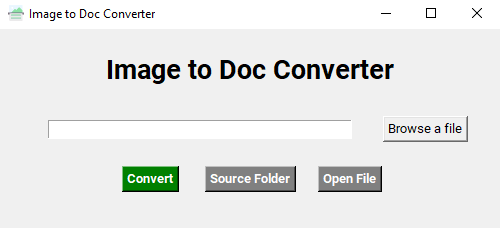
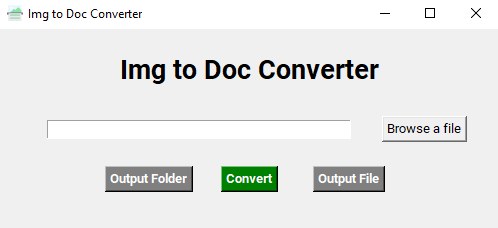
Updated Readme

diff --git a/README.md b/README.md
@@ -9,7 +9,7 @@ Image to doc converter tool helps to translate JPG or PNG images to word with th
 3. Install pillow from `pip install pillow`.
 4. Install pytesseract from `pip install pytesseract`
 5. Download `[tesseract 32-bit](https://rb.gy/gc55qc) or [tesseract 64-bit](https://rb.gy/yc6c2s)`
-6. Clone this repository: `git clone https://github.com/iam-hasibul/Image-to-Doc-Converter` or click `Download ZIP` in the right panel and extract it.
+6. Clone this repository: `git clone https://github.com/iam-hasibul/Img-to-Doc-Converter` or click `Download ZIP` in the right panel and extract it.
 7. Run `python img-to-doc.py` from the repository's directory.
 8. Click on `Browse a file` button and choose an image file.
 9. Click on `Convert` button to convert the image file to doc file.
@@ -17,6 +17,7 @@ Image to doc converter tool helps to translate JPG or PNG images to word with th
 ## Screenshot
 <img src="screenshots/screenshot-01.png" alt="Screenshot-01">
 <img src="screenshots/screenshot-02.png" alt="Screenshot-02">
+<img src="screenshots/screenshot-03.png" alt="Screenshot-03">
 
-## Download
-[Download Here](https://github.com/iam-hasibul/Image-to-Doc-Converter/blob/main/Image%20to%20Doc%20Converter-1.0-win32.msi)
+## Download Software
+[Download Here](https://github.com/iam-hasibul/Img-to-Doc-Converter/blob/main/Img%20to%20Doc%20Converter.exe)
